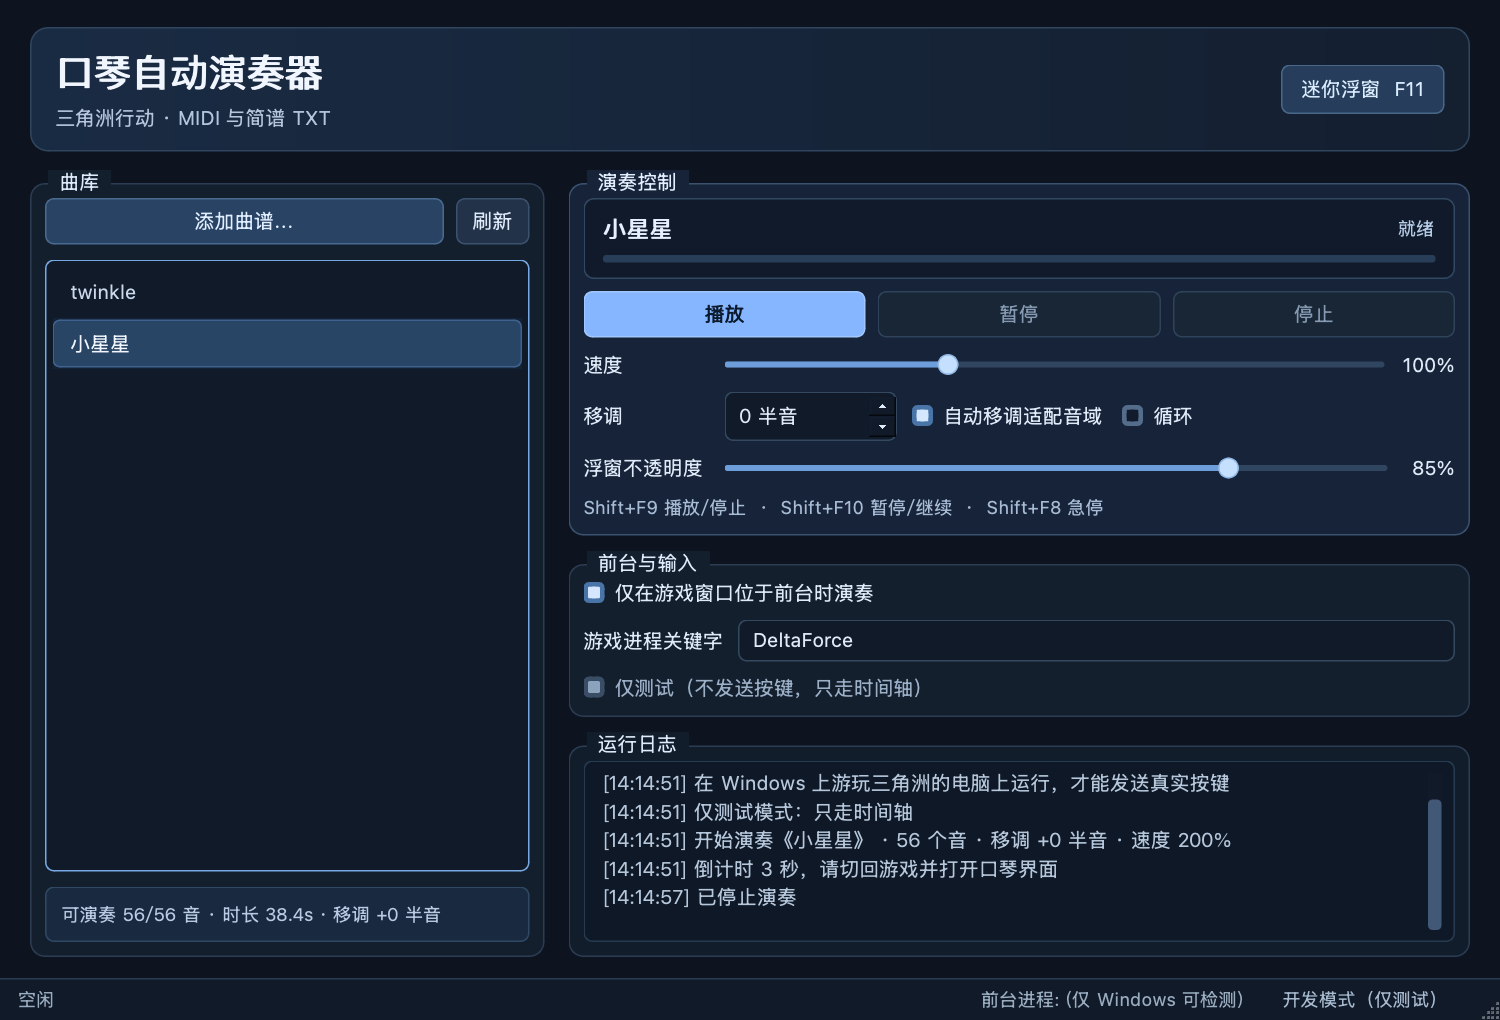
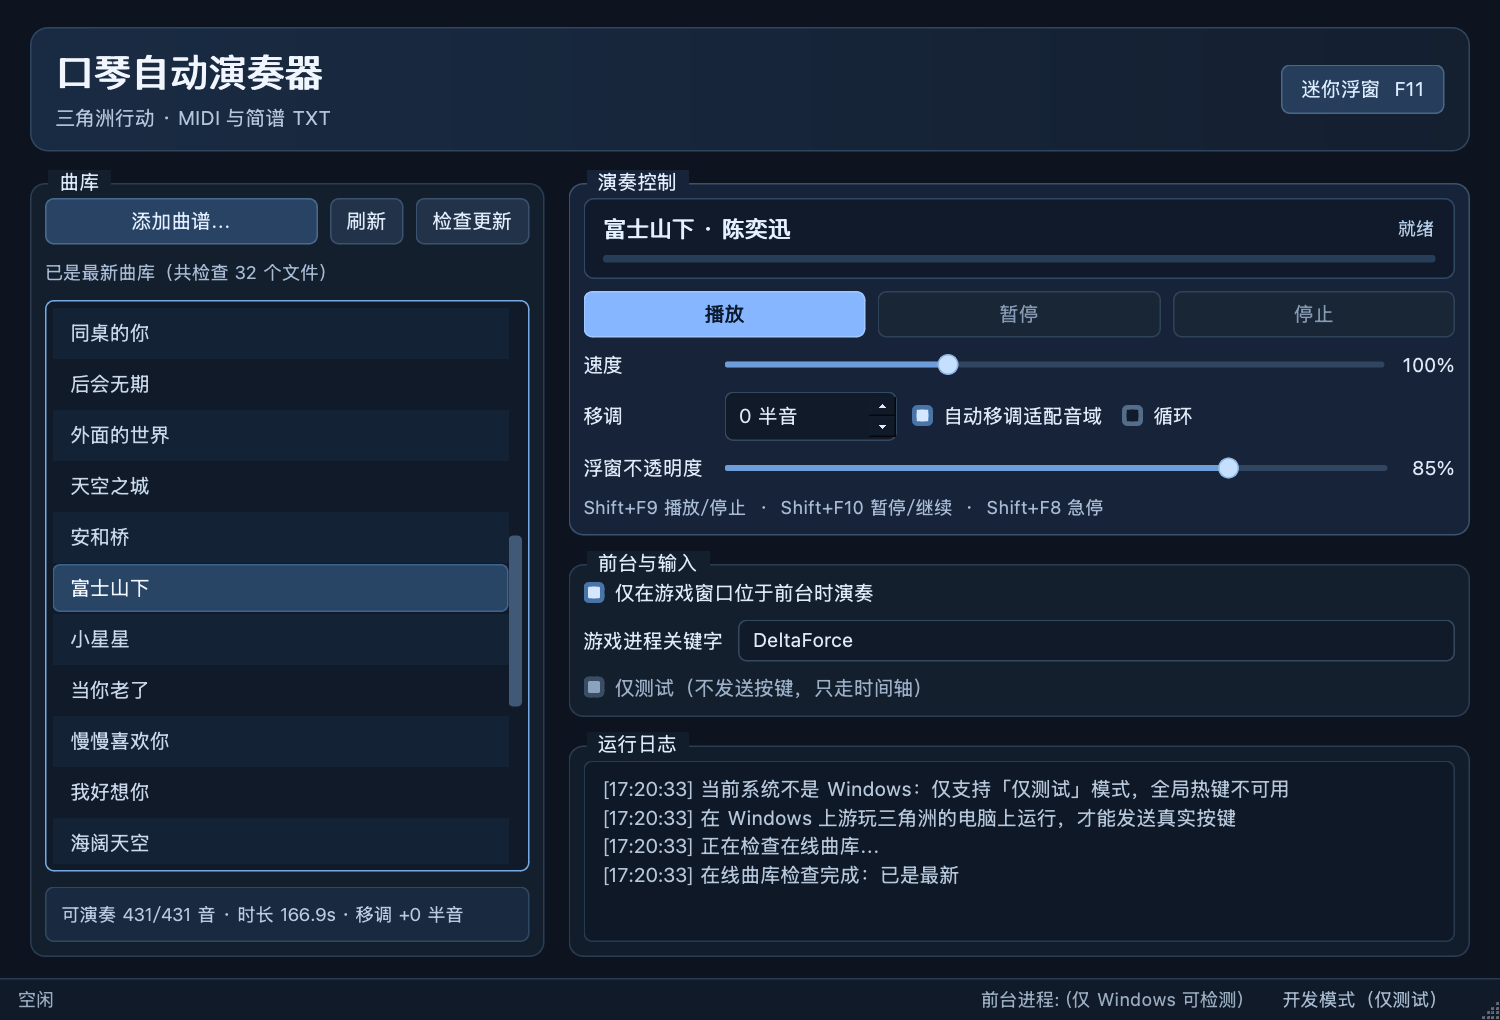
Refresh v1.0 screenshots and document administrator startup

diff --git a/README.md b/README.md
@@ -8,7 +8,9 @@
 
 本工具在桌面层通过 Windows `SendInput` 模拟前台键鼠操作，**不注入游戏进程、不读写游戏内存、不修改网络封包**，也不依赖任何第三方输入驱动。
 
-![主窗口，左侧为曲库，右侧为演奏控制、前台与输入、日志](docs/screenshot.png)
+![v1.0 主窗口，显示曲库检查更新的结果、演奏控制和日志](docs/screenshot.png)
+
+截图采自 macOS 的「仅测试」模式。
 
 > **风险提示**：游戏使用 ACE 反作弊，任何形式的模拟输入都可能被判定为违规，存在封号风险。请自行评估并承担使用后果，建议仅在单人/自定义房间或非重要账号上尝试。本项目仅供个人学习与音乐练习交流。
 
@@ -55,23 +57,29 @@
 
 ### Windows（可发送真实按键）
 
-使用 Windows 10/11 和 Python 3.12。首次安装可在官网下载 Python install manager，安装后重新打开 PowerShell，运行 `py install 3.12`。 [Python Windows 下载页](https://www.python.org/downloads/windows/)
+**在游戏内实际演奏时，请以管理员身份运行播放器。**
 
-在仓库页面点「Code → Download ZIP」并解压。打开包含 `main.py` 和 `requirements.txt` 的文件夹，在文件资源管理器地址栏输入 `powershell` 并按回车，然后逐行执行下面的命令。
+- **使用打包版。** 右键 `HarmonicaPlayer.exe`，选择「以管理员身份运行」，在用户账户控制提示中点「是」。
+- **从源码启动。** 在「开始」菜单搜索 PowerShell，选择「以管理员身份运行」，在提示中点「是」。在这个 PowerShell 窗口里执行下面的启动命令。
+
+在 Windows 10/11 上从源码运行时，使用 Python 3.12。首次安装可在官网下载 Python install manager，安装后重新打开 PowerShell，运行 `py install 3.12`。 [Python Windows 下载页](https://www.python.org/downloads/windows/)
+
+在仓库页面点「Code → Download ZIP」并解压。把第一行中的示例路径换成包含 `main.py` 和 `requirements.txt` 的实际目录，然后逐行运行。
 
 ```powershell
+Set-Location -LiteralPath 'C:\实际解压路径\shushu-s-harmonica-main'
 py -3.12 --version
 py -3.12 -m venv .venv
 .\.venv\Scripts\python.exe -m pip install -r .\requirements.txt
 .\.venv\Scripts\python.exe .\main.py
 ```
 
-第一条命令用来确认 Python 3.12 可用。以后从同一目录启动时，只需运行最后一条命令。需要生成可分发的程序时，可以双击 `build_exe.bat`。 [打包为 exe](#打包为-exe)
+`py -3.12 --version` 用来确认 Python 3.12 可用。以后从源码启动时，在管理员 PowerShell 中进入项目目录并执行最后一条命令。需要生成可分发的程序时，可以双击 `build_exe.bat`。 [打包为 exe](#打包为-exe)
 
 首次使用建议：
 
 1. 默认勾选「仅测试」。选一首曲谱点播放，确认时间轴和进度正常。
-2. 在游戏中解锁并装备口琴，再确认日志中的急停热键注册结果和游戏进程关键字。状态栏显示当前前台进程名。
+2. 在游戏中解锁并装备口琴。确认启动日志显示「运行权限：管理员」和急停热键注册成功，再核对状态栏显示的前台进程名是否匹配游戏进程关键字。
 3. 取消「仅测试」并点播放，利用 3 秒倒计时切回游戏，打开口琴界面。
 
 ### macOS / Linux（仅测试）
@@ -248,7 +256,7 @@ BPM=100
 
 | 模块 | 位置与操作 |
 |---|---|
-| 曲库 | 左侧选曲，可添加、刷新或拖入多个 MIDI、TXT 文件。解析完成后可双击播放，列表下方显示可演奏音符数、预计时长和实际移调。 |
+| 曲库 | 左侧选曲，可添加、刷新或拖入多个 MIDI、TXT 文件。「检查更新」会检查 GitHub 曲库并显示结果。解析完成后可双击播放，列表下方显示可演奏音符数、预计时长和实际移调。 |
 | 演奏控制 | 右侧提供播放、暂停、停止、速度、移调、自动适配和循环。播放时显示当前音符进度和对应按键，也可在这里调整浮窗不透明度。 |
 | 前台与输入 | 在右侧设置仅前台演奏、游戏进程关键字和仅测试模式。 |
 | 运行日志 | 在右下查看热键注册、曲谱导入、过短音符跳过、失焦和停止等记录。 |
@@ -347,7 +355,8 @@ python -m unittest discover -s tests -v
 ## 常见问题
 
 **Q：游戏里没有反应？**
-先确认游戏已打开口琴界面且处于可输入状态；其次检查工具与游戏权限是否一致、是否切换到英文输入法、是否使用无边框窗口；最后查看日志中有无 `SendInput` 错误。可以先用「仅测试」确认时间轴正常。
+
+先确认播放器的启动日志显示「运行权限：管理员」，并在游戏里打开口琴界面。再检查是否已切换到英文输入法并使用无边框窗口。可以用「仅测试」确认播放进度，或在日志里查看 `SendInput` 是否报错。
 
 **Q：热键没反应？**
 热键可能被其他程序占用，日志会显示注册结果。真实演奏要求 `Shift+F8` 注册成功。游戏内按 `F11` 无效时，可在主窗口点击悬浮窗按钮。关闭占用程序后重启本工具，可重新尝试注册。
@@ -379,6 +388,7 @@ python -m unittest discover -s tests -v
 
 | 日期 | 修订内容 |
 |---|---|
+| 2026-11-27 | 更新主窗口和迷你浮窗截图，展示在线曲库检查结果，并补充 Windows 打包版与源码的管理员启动步骤。 |
 | 2026-11-27 | 发布 v1.0，核对 32 首内置曲谱。修复图片谱生成器的逗号解析错误和在线更新时的本地同名曲谱覆盖问题。 |
 | 2026-11-26 | 曲库更新增加 Git 归属清单：只覆盖清单内内置曲目，本地同名曲目保留不覆盖，新增 Git 曲目自动登记。 |
 | 2026-11-26 | 新增联网曲库更新：检查 GitHub 变更、校验下载文件、备份并替换内置同名谱，保留用户新增曲谱。 |
